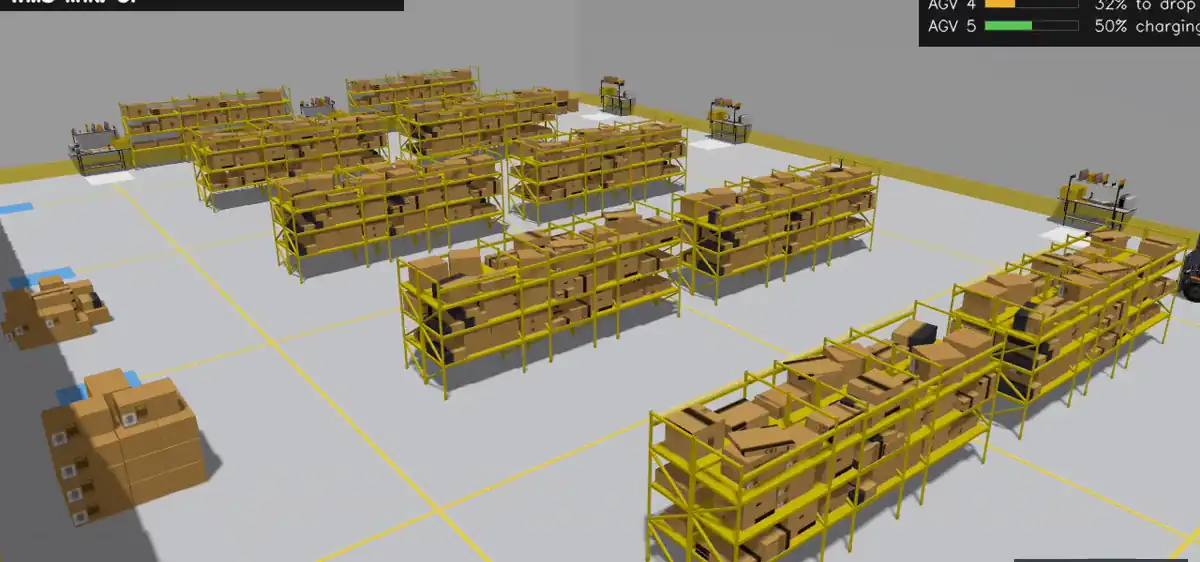
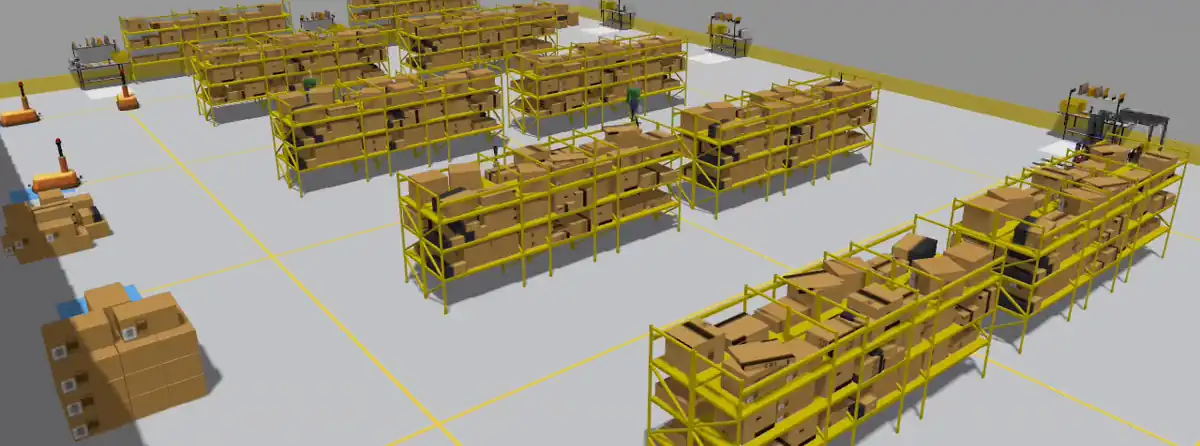
Keep the redrawn charts, tighten the hero frame, check image sizes at build
make_media.py was copying four of the repos' default-matplotlib charts over the
versions make_plots.py redraws in the site's palette, so re-running it undid the
styling pass. Those four are no longer in its copy list.

The hero still carried the recorder's HUD at the top and the speed badge at the
bottom; the crop is tighter and the frame is taken where robots are in shot.

Content declares the pixel size of every image so the browser reserves the right
box. That size is now read from the file itself at build time, so a regenerated
image whose content entry was not updated fails the build instead of shipping a
wrong-shaped box. Dead `avatar` field removed: no component read it and the file
it named was never there.

diff --git a/src/lib/imagesize.ts b/src/lib/imagesize.ts
@@ -1,0 +1,59 @@
+/**
+ * Intrinsic pixel size of an image file, read from its header.
+ *
+ * Content declares the width and height of every image so the browser reserves
+ * the right box before the bytes arrive. If a file is regenerated at a
+ * different size and the content file is not updated, the reserved box has the
+ * wrong aspect ratio. Reading the real size here lets the build catch that.
+ */
+export function imageSize(buffer: Buffer): { width: number; height: number } {
+  if (buffer.length >= 24 && buffer.toString('ascii', 1, 4) === 'PNG') {
+    return { width: buffer.readUInt32BE(16), height: buffer.readUInt32BE(20) };
+  }
+  if (buffer.toString('ascii', 0, 4) === 'RIFF' && buffer.toString('ascii', 8, 12) === 'WEBP') {
+    return webpSize(buffer);
+  }
+  if (buffer.readUInt16BE(0) === 0xffd8) return jpegSize(buffer);
+  throw new Error('unsupported image format');
+}
+
+function webpSize(buffer: Buffer): { width: number; height: number } {
+  const format = buffer.toString('ascii', 12, 16);
+  if (format === 'VP8X') {
+    return {
+      width: buffer.readUIntLE(24, 3) + 1,
+      height: buffer.readUIntLE(27, 3) + 1,
+    };
+  }
+  if (format === 'VP8 ') {
+    // Key-frame header: 3-byte frame tag, 3-byte start code, then 14-bit sizes.
+    return {
+      width: buffer.readUInt16LE(26) & 0x3fff,
+      height: buffer.readUInt16LE(28) & 0x3fff,
+    };
+  }
+  if (format === 'VP8L') {
+    // 1-byte signature, then 14 bits of width-1 and 14 bits of height-1.
+    const bits = buffer.readUInt32LE(21);
+    return {
+      width: (bits & 0x3fff) + 1,
+      height: ((bits >> 14) & 0x3fff) + 1,
+    };
+  }
+  throw new Error(`unsupported WebP variant ${format}`);
+}
+
+function jpegSize(buffer: Buffer): { width: number; height: number } {
+  let offset = 2;
+  while (offset < buffer.length) {
+    if (buffer[offset] !== 0xff) throw new Error('corrupt JPEG');
+    const marker = buffer[offset + 1] as number;
+    const length = buffer.readUInt16BE(offset + 2);
+    // SOF0-SOF15, skipping the four markers in that range that are not frames.
+    if (marker >= 0xc0 && marker <= 0xcf && ![0xc4, 0xc8, 0xcc].includes(marker)) {
+      return { width: buffer.readUInt16BE(offset + 7), height: buffer.readUInt16BE(offset + 5) };
+    }
+    offset += 2 + length;
+  }
+  throw new Error('no JPEG frame header');
+}

diff --git a/src/lib/content.ts b/src/lib/content.ts
@@ -4,6 +4,7 @@ import path from 'node:path';
 import projectsJson from '@content/projects.json';
 import siteJson from '@content/site.json';
 
+import { imageSize } from './imagesize';
 import type {
   Category,
   Environment,
@@ -58,6 +59,24 @@ function assetExists(src: string, where: string): string {
   return src;
 }
 
+function fileSize(src: string): { width: number; height: number } {
+  return imageSize(fs.readFileSync(path.join(PUBLIC_DIR, src)));
+}
+
+function assertDeclaredSize(src: string, width: number, height: number, where: string): void {
+  const real = fileSize(src);
+  if (real.width !== width || real.height !== height) {
+    fail(where, `public${src} is ${real.width}x${real.height}, content says ${width}x${height}`);
+  }
+}
+
+function assertDeclaredAspect(src: string, aspect: number, where: string): void {
+  const real = fileSize(src);
+  if (Math.abs(real.width / real.height - aspect) > 0.01 * aspect) {
+    fail(where, `public${src} is ${real.width}x${real.height}, a different shape to the video`);
+  }
+}
+
 function media(value: unknown, where: string): MediaItem {
   const raw = value as Record<string, unknown>;
   const type = oneOf(raw.type, ['image', 'video'] as const, `${where}.type`);
@@ -74,6 +93,14 @@ function media(value: unknown, where: string): MediaItem {
   }
   if (typeof raw.poster === 'string') item.poster = assetExists(raw.poster, `${where}.poster`);
   if (type === 'video' && !item.poster) fail(where, 'a video needs a poster frame');
+  if (type === 'image') {
+    assertDeclaredSize(item.src, item.width, item.height, where);
+  } else {
+    // An mp4's own header is not read here; its poster is the same frame at a
+    // smaller size, so matching aspect ratios catches a video regenerated at a
+    // different shape.
+    assertDeclaredAspect(item.poster as string, item.width / item.height, `${where}.poster`);
+  }
   if (typeof raw.caption === 'string') item.caption = raw.caption;
   if (raw.frame === true) item.frame = true;
   return item;

diff --git a/src/lib/types.ts b/src/lib/types.ts
@@ -85,7 +85,6 @@ export type Site = {
   github: string;
   linkedin: string;
   resumePdf: string;
-  avatar: string;
   heroBackdrop: MediaItem;
   education: { degree: string; institution: string; period: string; detail: string }[];
   experience: { role: string; org: string; period: string; detail: string }[];
